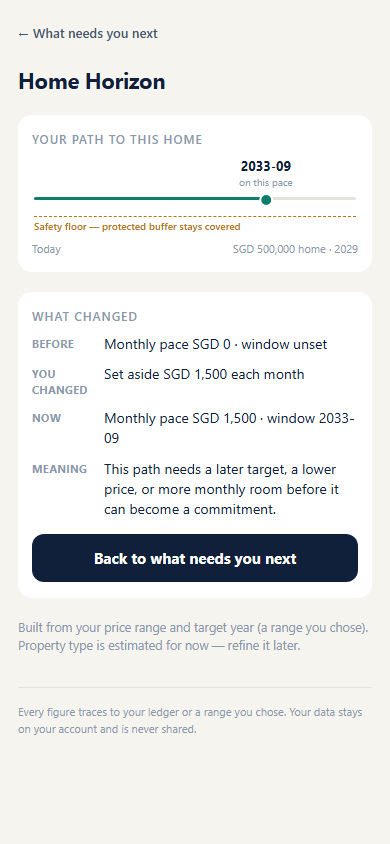
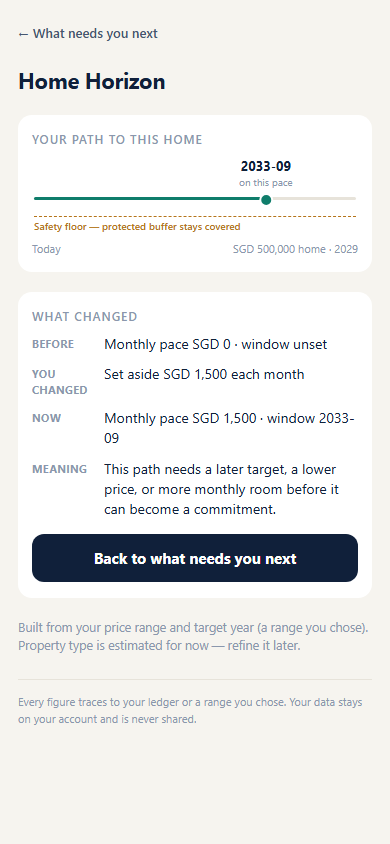
fix: tighten whitespace on the sparse Future Bank screens
The footer was pinned to the viewport base (margin-top:auto on a
100dvh shell), stranding a dead gap above it on Welcome, Money
Snapshot step 1 and the Home Horizon shape phase. Now the shell is
content-height (.app still paints the ground for the full viewport
via align-items:flex-start), and the footer hugs the content with
its divider. Tall screens (Today, What needs you next, Change
Receipt) are unaffected. Welcome wrapper de-centred to a plain gap
stack. Screenshots regenerated; playwright 3/3.

Claude-Session: https://claude.ai/code/session_01WoyfsaXAy942YDrPqLGGjF

Changed region(s): [[0.0308, 0.8318, 0.9231, 0.8934]]

diff --git a/app/showcase/fb.module.css b/app/showcase/fb.module.css
@@ -23,14 +23,14 @@
   -webkit-font-smoothing: antialiased;
   display: flex;
   justify-content: center;
+  align-items: flex-start; /* shell is content-height; .app paints the rest */
 }
 
 .shell {
   width: 100%;
   max-width: 430px;
-  min-height: 100dvh;
   background: var(--ground);
-  padding: 20px 18px 96px;
+  padding: 20px 18px 40px;
   display: flex;
   flex-direction: column;
   gap: 20px;
@@ -666,12 +666,10 @@
 
 /* ---- welcome illustration ------------------------------- */
 .welcomeWrap {
-  flex: 1;
   display: flex;
   flex-direction: column;
-  justify-content: center;
-  gap: 24px;
-  padding: 8px 0;
+  gap: 22px;
+  padding: 12px 0 4px;
 }
 .welcomeArt {
   background: var(--surface);
@@ -759,8 +757,8 @@
 }
 
 .footer {
-  margin-top: auto;
-  padding-top: 16px;
+  margin-top: 4px;
+  padding-top: 14px;
   border-top: 1px solid var(--line);
   font-size: 11px;
   line-height: 1.5;
